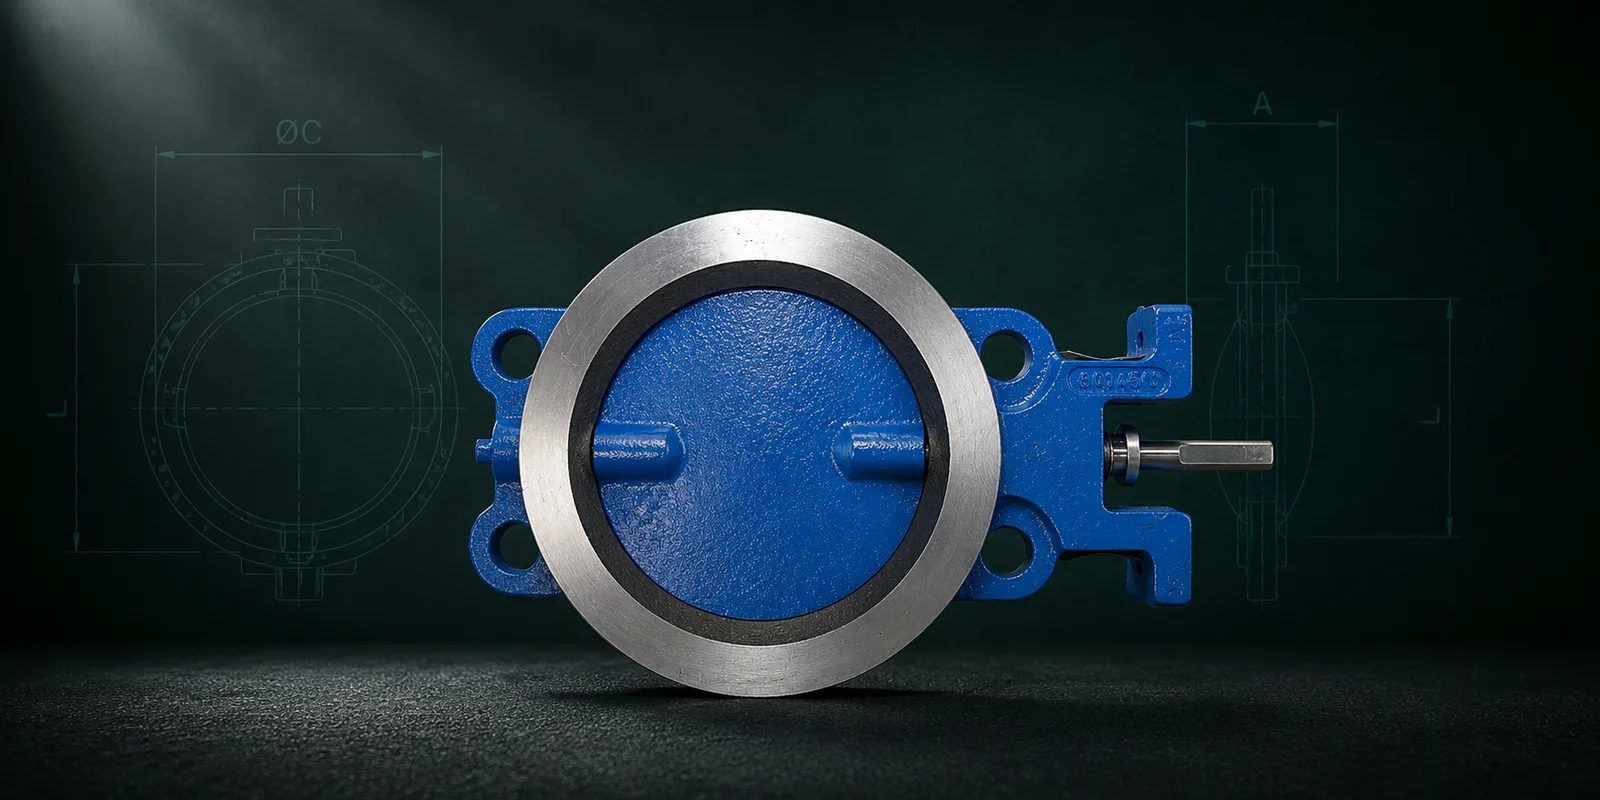
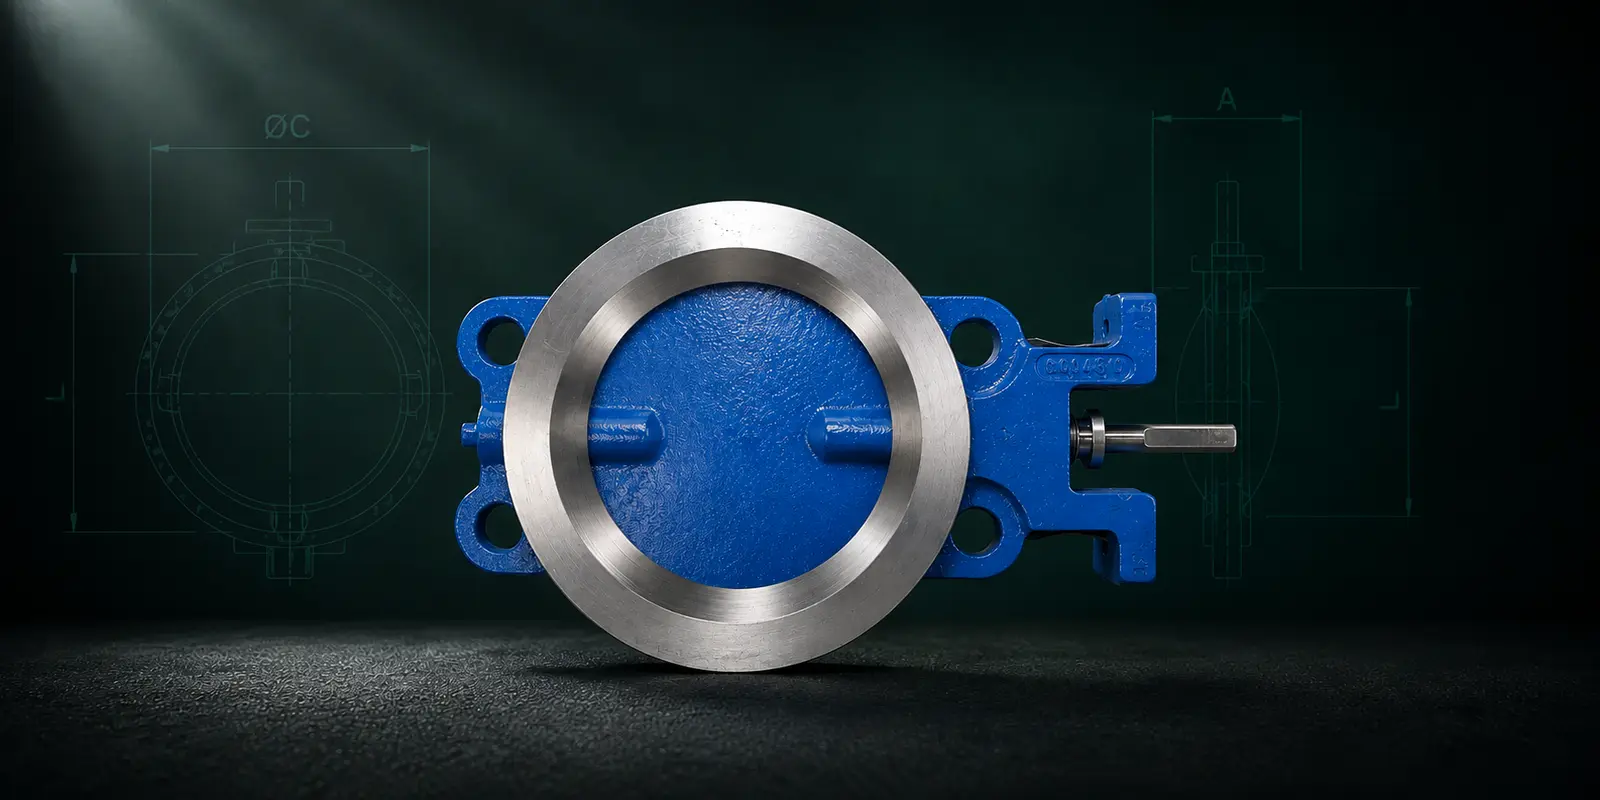
Correct EconoTrol tapered machined-steel seat imagery

Changed region(s): [[0.0625, 0.25, 0.8125, 0.9688], [0.7812, 0.125, 0.8125, 0.1562], [0.1562, 0.1562, 0.1875, 0.1875]]

diff --git a/data/assets/registry.ts b/data/assets/registry.ts
@@ -363,7 +363,7 @@ interface GalleryAssetRef {
 }
 
 const galleryAssetRefs: GalleryAssetRef[] = [
-  { id: 'econotrol-6-inch-front', name: 'Econotrol 6-Inch Front View', productSlug: 'econotrol', fileName: '6-inch-front.webp', alt: 'PDC Econotrol 6-inch butterfly damper valve front view', fileSizeBytes: 163258 },
+  { id: 'econotrol-6-inch-front', name: 'Econotrol 6-Inch Front View', productSlug: 'econotrol', fileName: '6-inch-front.webp', alt: 'PDC Econotrol 6-inch butterfly damper valve front view with tapered machined-steel seat', fileSizeBytes: 121742 },
   { id: 'combustion-standard', name: 'Combustion Valve Standard Configuration', productSlug: 'combustion-valve', fileName: 'standard-configuration.webp', alt: 'PDC Combustion Valve standard manual configuration', fileSizeBytes: 69678 },
   { id: 'combustion-lock-lever', name: 'Combustion Valve Lock-Lever Configuration', productSlug: 'combustion-valve', fileName: 'lock-lever-configuration.webp', alt: 'PDC Combustion Valve with lock-lever configuration', fileSizeBytes: 57884 },
   { id: 'flanged-end-isometric', name: 'Flanged End Isometric View', productSlug: 'flanged-end', fileName: 'isometric-view.webp', alt: 'PDC Flanged End butterfly damper valve isometric view with lock lever', fileSizeBytes: 109940 },

diff --git a/data/products/butterfly-damper-valves/econotrol.ts b/data/products/butterfly-damper-valves/econotrol.ts
@@ -147,7 +147,7 @@ export const econotrol: ProductContent = {
     gallery: [
       {
         src: '/images/products/butterfly-damper-valves/gallery/econotrol/6-inch-front.webp',
-        alt: 'PDC Econotrol 6-inch butterfly damper valve front view',
+        alt: 'PDC Econotrol 6-inch butterfly damper valve front view with tapered machined-steel seat',
         kind: 'gallery',
         caption: '6-Inch Econotrol — Front View',
         width: 1536,
